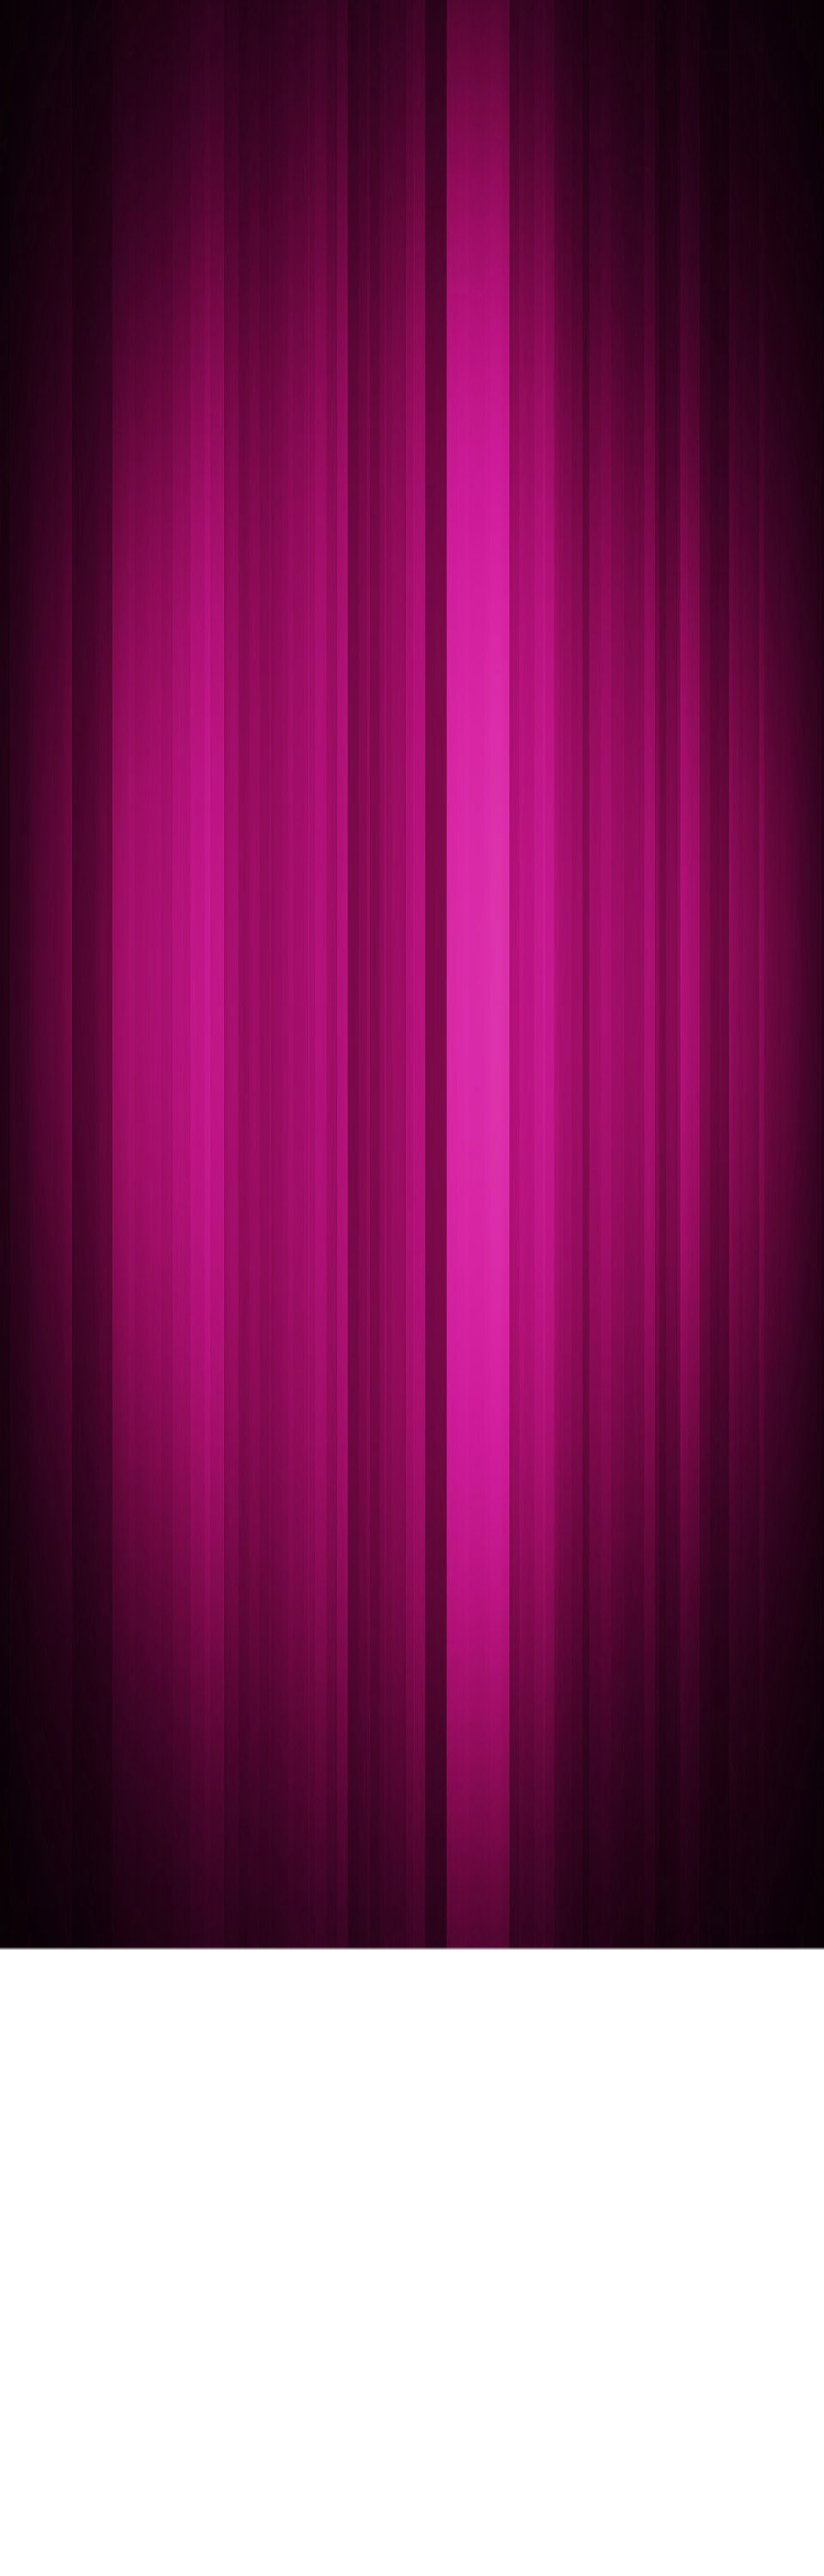
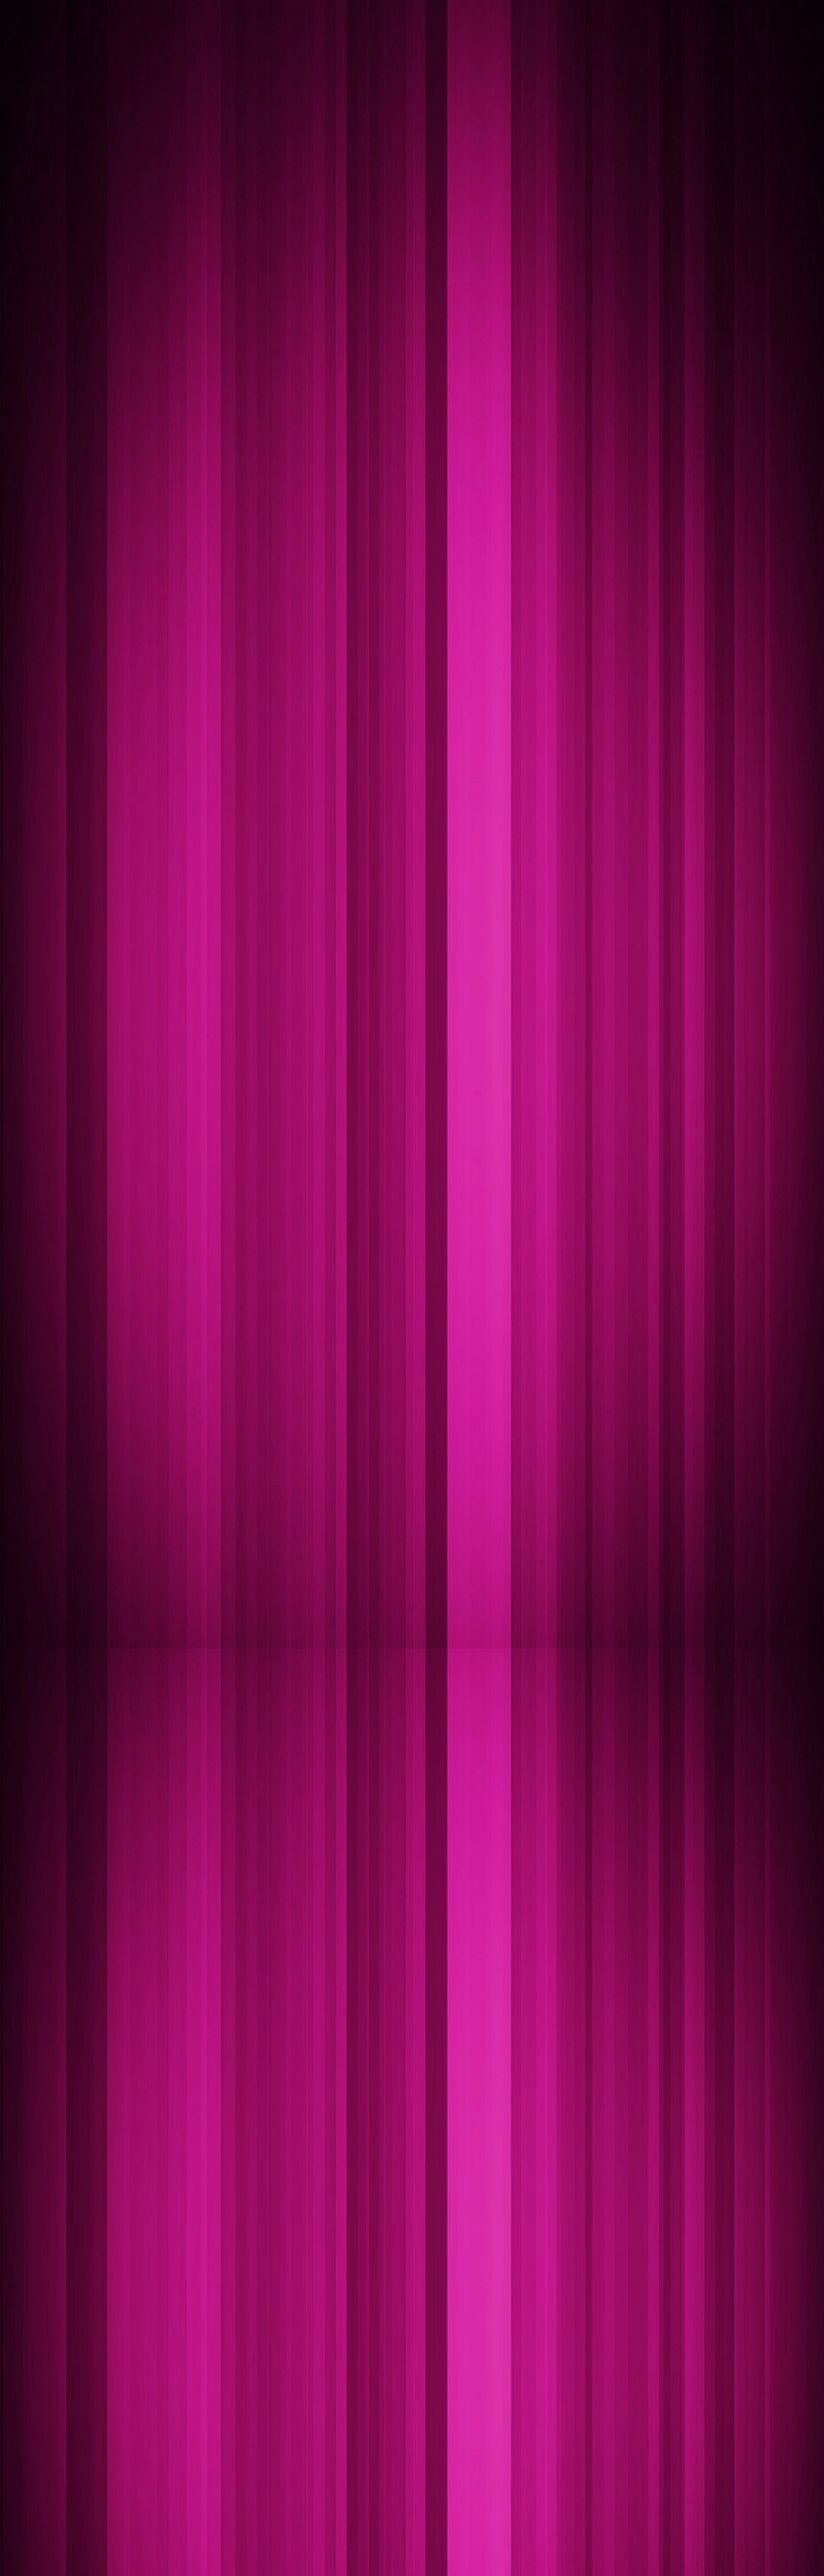
background update

diff --git a/bellman.css b/bellman.css
@@ -3,6 +3,8 @@ body
 	background-image:url('bakgrund2.jpg');
 	background-repeat:repeat-y;
 	color:white;
+	background-color:black;
+	background-position:center;
 }
 .full
 {
